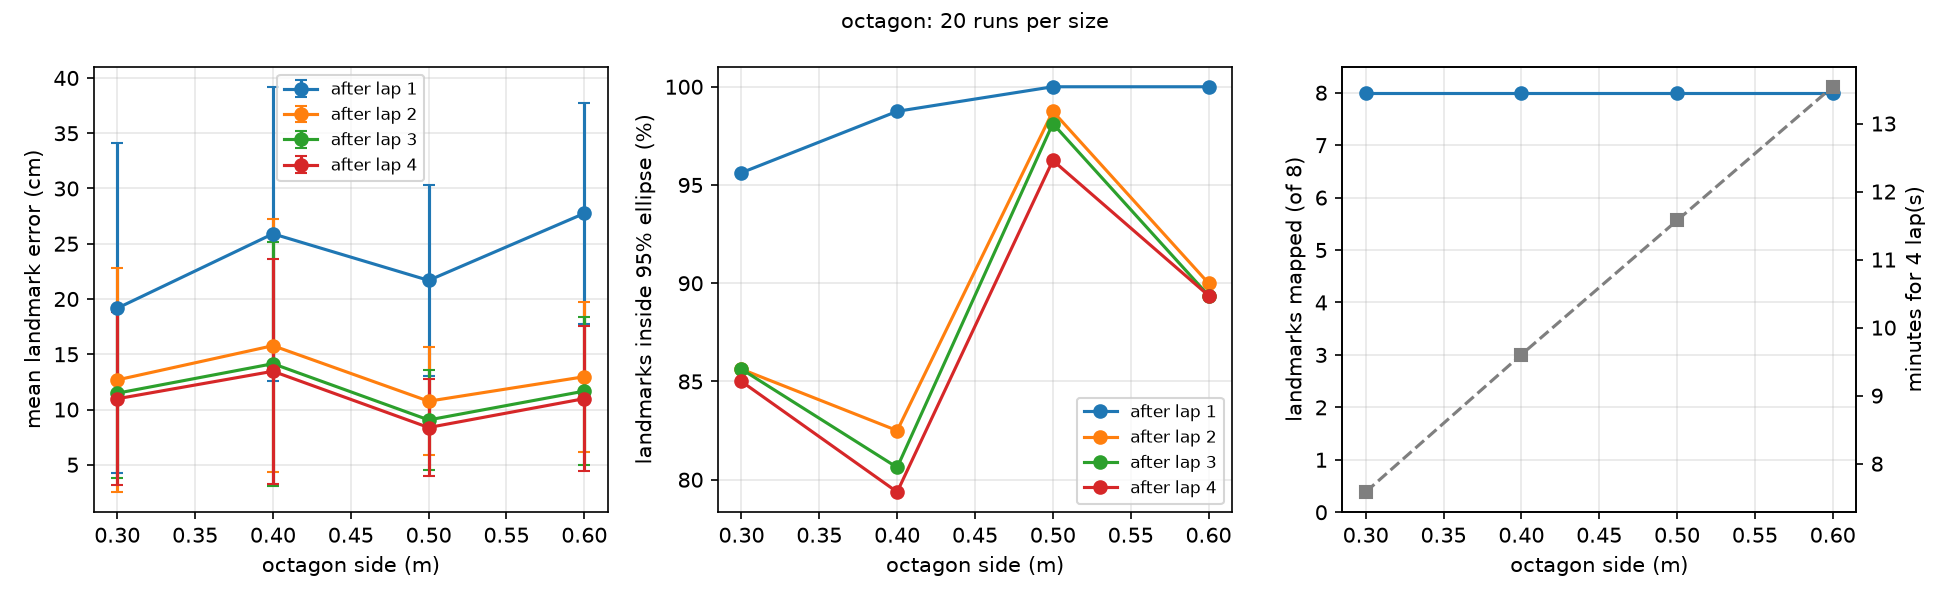
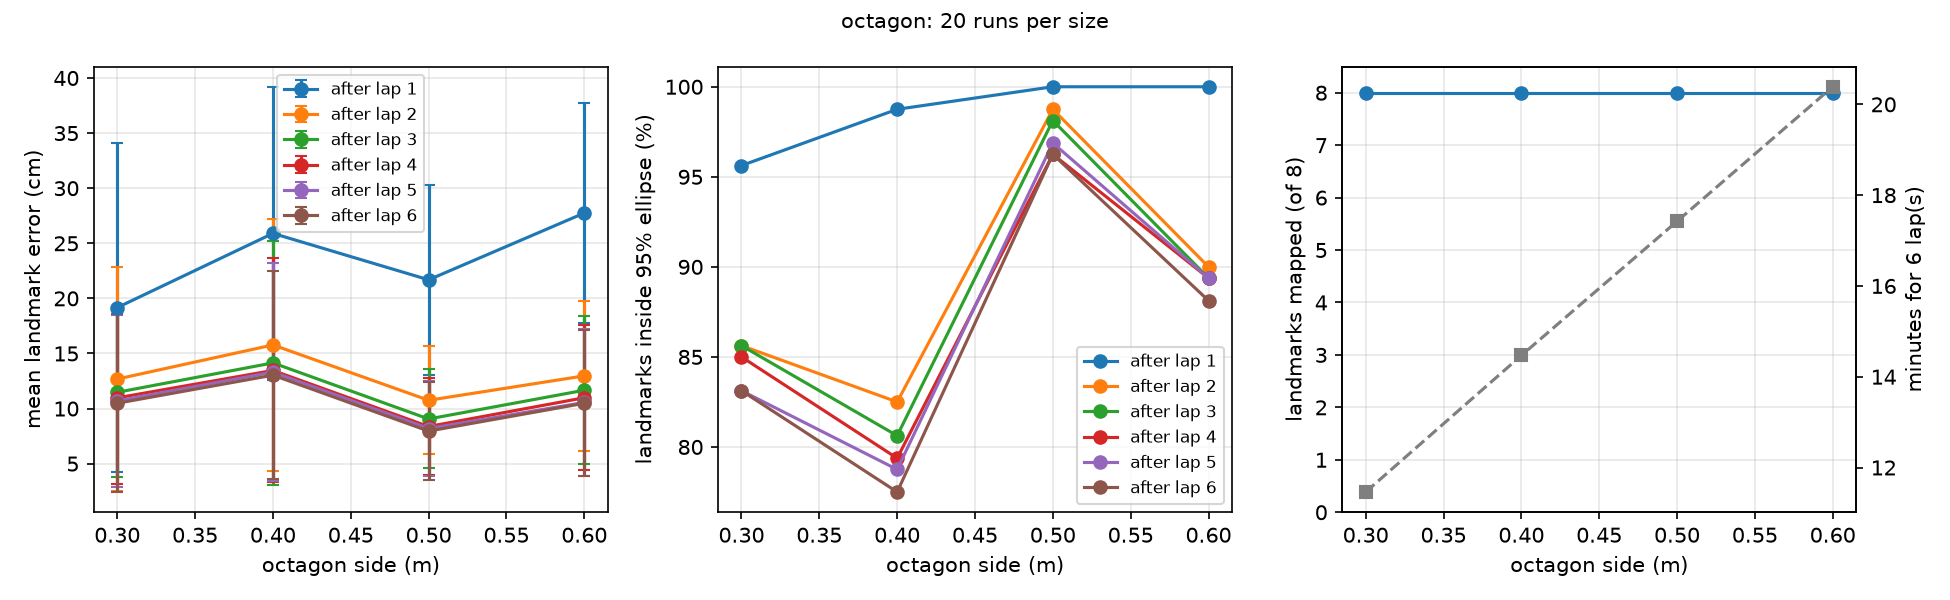
add: lap log

diff --git a/landmark_nav/landmark_nav/localizer_node.py b/landmark_nav/landmark_nav/localizer_node.py
@@ -13,6 +13,8 @@ Publishes:
 Writes (every 0.5 s):
     log_file     CSV: t, x, y, theta, sx, sy, stheta, n_updates, n_landmarks
     map_log_file CSV: t, id, x, y, sxx, sxy, syy   (one row per landmark: the map at any time)
+    Both files also get a comment line "# lap N done, t = ..." when the controller finishes a lap
+    (lap_events topic). Read them with pandas.read_csv(f, comment='#') or np.loadtxt (skips '#').
 
 Run:
     ros2 run landmark_nav localizer
@@ -101,6 +103,7 @@ class Localizer(Node):
 
         self.create_subscription(Float32MultiArray, 'motor_commands', self.on_cmd, 10)
         self.create_subscription(String, 'landmark_obs', self.on_obs, 10)
+        self.create_subscription(String, 'lap_events', self.on_lap, 10)
         self.pub = self.create_publisher(PoseWithCovarianceStamped, 'robot_pose', 10)
         self.upd_pub = self.create_publisher(Int32, 'landmark_updates', 10)
         self.create_timer(0.05, self.on_timer)        # predict + publish, 20 Hz
@@ -263,6 +266,15 @@ class Localizer(Node):
             self.map_log.writerow([t, lid, f'{lx:.4f}', f'{ly:.4f}',
                                    f'{C[0, 0]:.6f}', f'{C[0, 1]:.6f}', f'{C[1, 1]:.6f}'])
         self.map_f.flush()
+
+    def on_lap(self, msg):
+        """Controller finished a lap: log the pose / map right now, then a marker line in both CSVs."""
+        self.on_log()
+        line = f'# {msg.data}, t = {time.monotonic() - self.t0:.2f}\n'
+        for f in (self.log_f, self.map_f):
+            f.write(line)
+            f.flush()
+        self.get_logger().info(f'{msg.data} (marked in the CSV logs)')
 
     def destroy_node(self):
         self.log_f.close()

diff --git a/landmark_nav/landmark_nav/closed_loop_control.py b/landmark_nav/landmark_nav/closed_loop_control.py
@@ -213,6 +213,7 @@ def main():
     motion = Motion(node)
     node.create_subscription(PoseWithCovarianceStamped, 'robot_pose', on_pose, 10)
     node.create_subscription(Int32, 'landmark_updates', on_updates, 10)
+    lap_pub = node.create_publisher(String, 'lap_events', 10)   # localizer marks laps in its CSVs
     #node.create_subscription(String, 'landmark_map', on_map, 10)
 
     args = sys.argv[1:]
@@ -244,6 +245,8 @@ def main():
                 print(f'== lap {k // per_lap} done at t = {time.monotonic() - t_start:.0f} s: '
                       f'est=({x:.3f}, {y:.3f}, {math.degrees(th):+.1f}deg)  '
                       f'sigma=({sx:.3f}, {sy:.3f}, {math.degrees(sth):.1f}deg)')
+                lap_pub.publish(String(data=f'lap {k // per_lap} done'))
+                motion.spin_for(0.1)               # let the message go out
         print(f'--> trajectory finished, turning back to the start facing ({math.degrees(start_th):+.1f}deg)')
         face(start_th)
         x, y, th = pose[:3]
